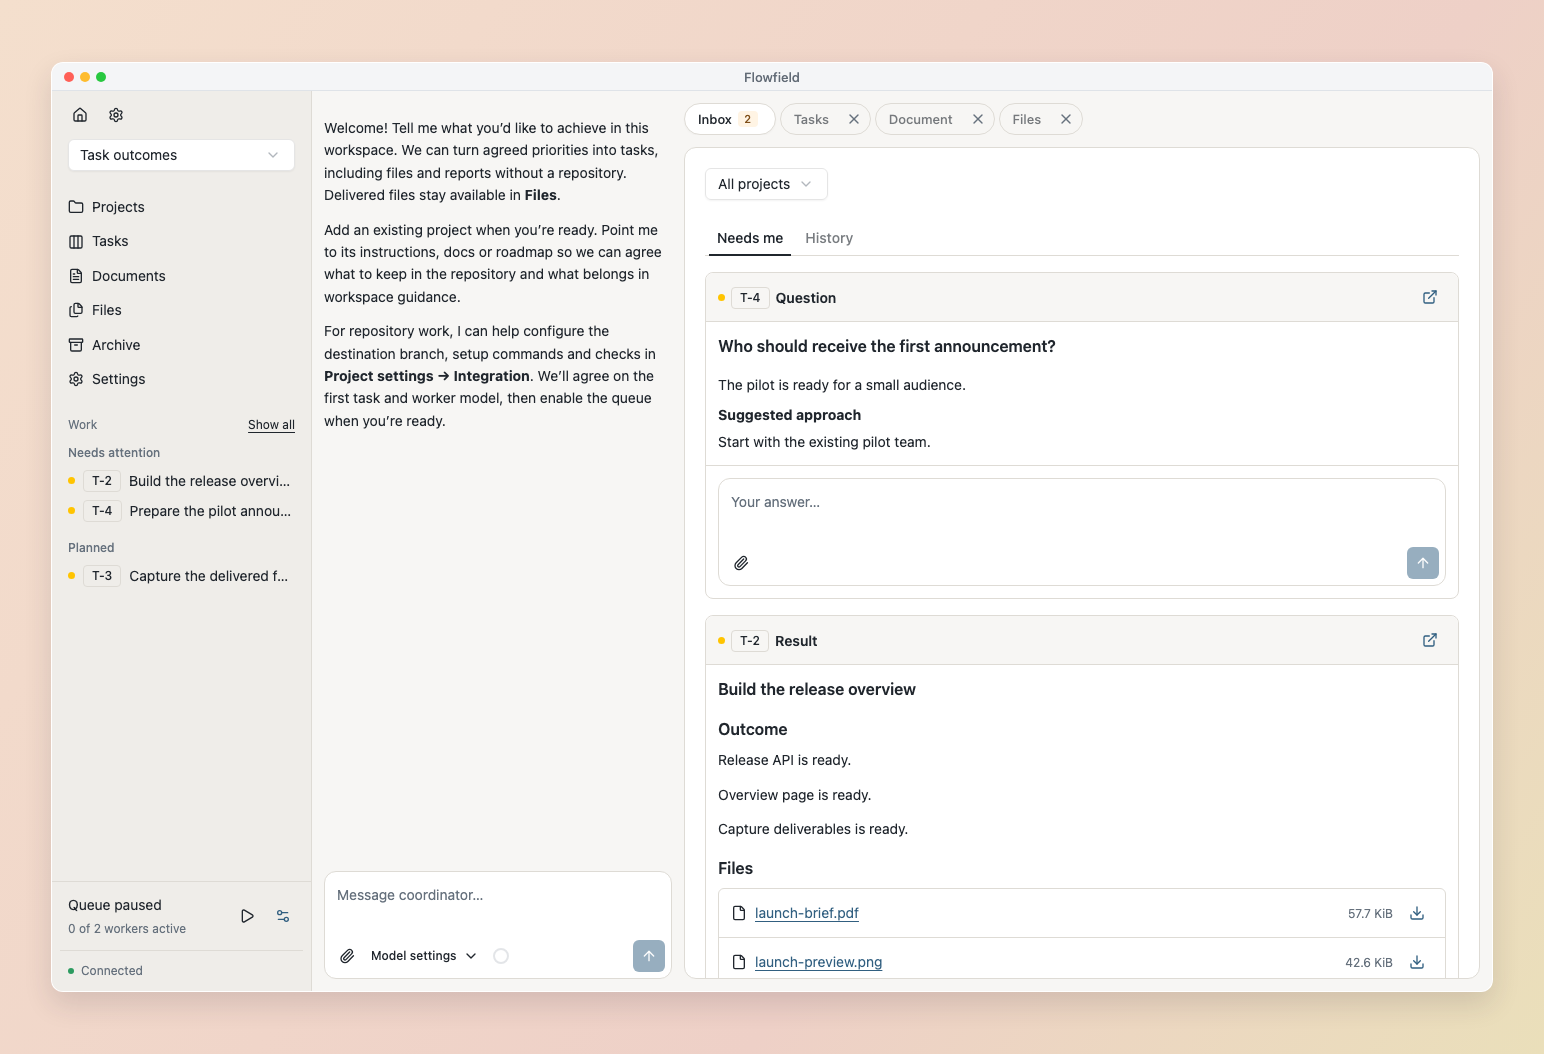
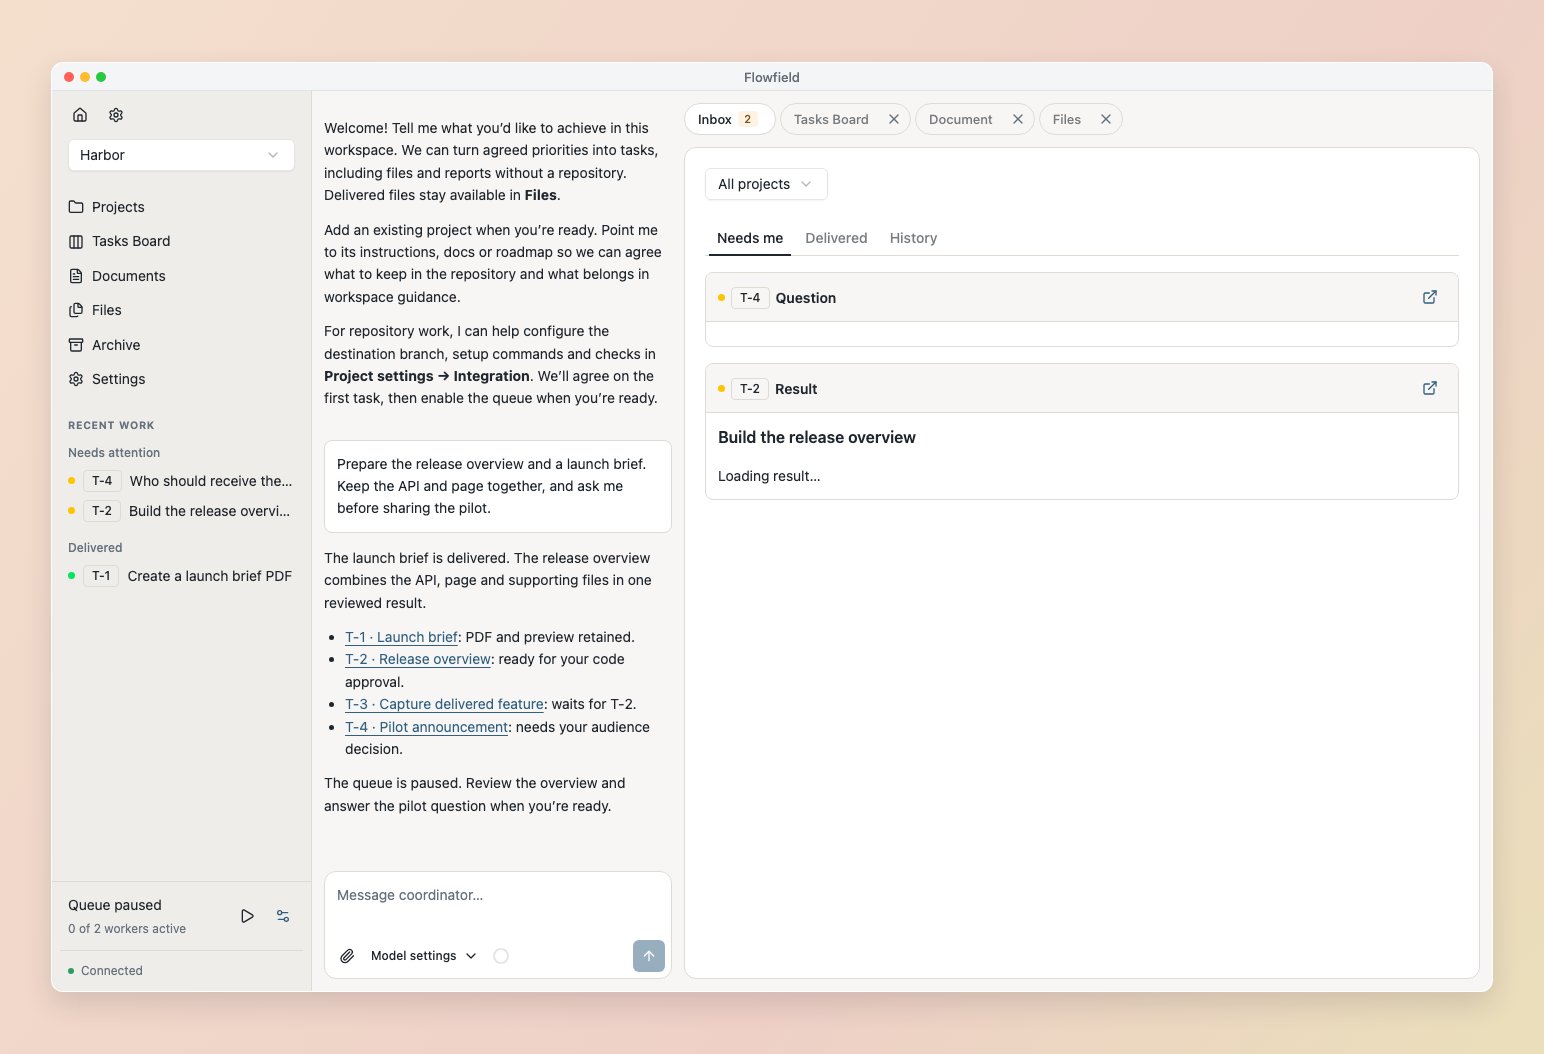
Align task workflow docs and README for 0.6.0

diff --git a/README.md b/README.md
@@ -1,7 +1,7 @@
 <h1 align="center">Flowfield</h1>
 
 <p align="center"><strong>Ship software. Not slop.</strong></p>
-<p align="center">A workspace for you and your coding agents.<br>Work through the idea, keep the context, and build across projects without losing the plot.</p>
+<p align="center">A workspace for you and your coding agents.<br>Shape the plan, build across projects, and bring every outcome through review.</p>
 
 <p align="center">
   <a href="https://flowfield.sh">Website</a> · <a href="https://docs.flowfield.sh/getting-started">Get started</a> · <a href="https://docs.flowfield.sh">Documentation</a>
@@ -13,13 +13,13 @@
   <a href="https://github.com/flowfield-sh/flowfield-core/blob/main/LICENSE"><img src="https://img.shields.io/badge/license-Apache_2.0-2563eb" alt="Apache 2.0 license"></a>
 </p>
 
-![The workspace board and Coordinator, with work spanning several projects](https://raw.githubusercontent.com/flowfield-sh/flowfield-core/main/docs/images/board-hero.png)
+![The Coordinator beside task priorities, review and delivered outcomes](docs/images/board-hero.png)
 
 The idea is in one conversation. The implementation is in another. An agent needs an answer, a task is waiting on another task, and the reason you chose this approach is buried twenty messages back.
 
-**Flowfield gives that work a home.** Delegate planning and coordination through one conversation while workers carry out focused tasks in your existing repositories. Shared knowledge stays in versioned documents, and questions and reviews come back to one Inbox. You decide what ships.
+**Flowfield gives that work a home.** Plan with the Coordinator while workers carry out focused tasks across your existing repositories. Keep shared knowledge in versioned documents, let a Reviewer assess each complete outcome, and answer questions in one Inbox. Code, reports and files stay connected to the work that produced them. You decide which code ships.
 
-Flowfield works with **Codex, Claude Code and Pi**, with more harness support coming. Choose independently for the Coordinator and workers.
+Flowfield runs locally and works with **Codex, Claude Code and Pi**. Choose independently for the Coordinator, Workers and Reviewer.
 
 ## Get started
 
@@ -30,36 +30,38 @@ uv tool install flowfield-core
 flowfield serve
 ```
 
-Open [localhost:8765](http://127.0.0.1:8765), create a workspace and add your existing repositories. See [Getting started](https://docs.flowfield.sh/getting-started) for the walkthrough or [Installation](https://docs.flowfield.sh/installation) for requirements and alternatives.
+Open [localhost:8765](http://127.0.0.1:8765), create a workspace and choose its agents. Add existing repositories for code work, or start with a report or file task. See [Getting started](https://docs.flowfield.sh/getting-started) for the walkthrough or [Installation](https://docs.flowfield.sh/installation) for requirements and alternatives.
+
+Upgrading from an earlier database schema requires a fresh data directory. Existing state is preserved but not migrated; read [Local storage](https://docs.flowfield.sh/storage#starting-fresh) before updating.
 
 ## How does Flowfield work?
 
-Ask the Coordinator to organize the work, maintain shared context and follow up on results. Use Tasks to follow progress, edit shared documents and respond through Inbox. Conversation and direct actions work on the same plan.
+Ask the Coordinator to organize work and maintain shared context. Each task owns a useful outcome, its history and delivery. Follow Tasks Board, edit documents and respond through Inbox while the same conversation stays beside the work.
 
 **💬 Shape the idea**<br>Talk through the problem with the Coordinator. It turns agreed decisions into tasks while the work continues beside the conversation.
 
-**🗂 Connect your projects**<br>Work across your existing repositories in one workspace. The Coordinator can organize shared priorities and link dependent tasks across projects.
+**🗂 Connect your projects**<br>Bring your API, application and documentation into one workspace. Link dependent tasks across projects, or create reports and files without a repository.
 
 **📚 Give workers the right context**<br>The Coordinator maintains shared documents and selects the sources each task needs. Prepared tasks keep their exact document revisions, and newer revisions stay visible for review.
 
-**⚡ Build in parallel**<br>Workers carry out independent tasks in separate Git checkouts using your tools and checks. Flowfield holds dependent work until its prerequisites are complete.
+**⚡ Build in parallel**<br>Workers carry out independent tasks in separate checkouts using your tools and checks. Larger tasks can use local subtasks that assemble into one result. Dependent work waits for delivered prerequisites.
 
-**📥 Know what needs you**<br>Inbox brings together questions, blockers and results. Ask the Coordinator to sort through them, or respond directly. Task feeds preserve progress, answers and evidence.
+**📥 Know what needs you**<br>Inbox separates decisions in Needs me, completed outcomes in Delivered and earlier responses in History. Answer a question once and managed work continues when eligible. Task feeds preserve the story.
 
-**🔎 Own the finish**<br>Ask the Coordinator to help review a result or request another pass. Inspect and try the code yourself when useful, then approve delivery through the conversation or task controls. Approval stays tied to the exact result.
+**🔎 Own the finish**<br>The Reviewer assesses the whole task and can request corrections. Inspect or run the result, then approve exact code for delivery to your local branch. Complete reports and files finish after configured review and remain available in Files. Pushing and deployment stay yours.
 
 ## Screenshots
 
 <table>
   <tr>
-    <td width="33%" align="center"><a href="https://github.com/flowfield-sh/flowfield-core/blob/main/docs/images/readme/board.png"><img src="https://raw.githubusercontent.com/flowfield-sh/flowfield-core/main/docs/images/readme/board.png" alt="Workspace board with code, file and report tasks"></a><br><strong>Tasks</strong></td>
-    <td width="33%" align="center"><a href="https://github.com/flowfield-sh/flowfield-core/blob/main/docs/images/readme/documents.png"><img src="https://raw.githubusercontent.com/flowfield-sh/flowfield-core/main/docs/images/readme/documents.png" alt="Shared workspace document with revision history"></a><br><strong>Documents</strong></td>
-    <td width="33%" align="center"><a href="https://github.com/flowfield-sh/flowfield-core/blob/main/docs/images/readme/files.png"><img src="https://raw.githubusercontent.com/flowfield-sh/flowfield-core/main/docs/images/readme/files.png" alt="Retained task files with folders and a file inspector"></a><br><strong>Files</strong></td>
+    <td width="33%" align="center"><a href="docs/images/readme/board.png"><img src="docs/images/readme/board.png" alt="Workspace board with code, file and report tasks"></a><br><strong>Tasks</strong></td>
+    <td width="33%" align="center"><a href="docs/images/readme/documents.png"><img src="docs/images/readme/documents.png" alt="Shared workspace document with revision history"></a><br><strong>Documents</strong></td>
+    <td width="33%" align="center"><a href="docs/images/readme/files.png"><img src="docs/images/readme/files.png" alt="Retained task files with folders and a file inspector"></a><br><strong>Files</strong></td>
   </tr>
   <tr>
-    <td align="center"><a href="https://github.com/flowfield-sh/flowfield-core/blob/main/docs/images/readme/inbox.png"><img src="https://raw.githubusercontent.com/flowfield-sh/flowfield-core/main/docs/images/readme/inbox.png" alt="Inbox with a question and code ready for review"></a><br><strong>Inbox</strong></td>
-    <td align="center"><a href="https://github.com/flowfield-sh/flowfield-core/blob/main/docs/images/readme/task.png"><img src="https://raw.githubusercontent.com/flowfield-sh/flowfield-core/main/docs/images/readme/task.png" alt="Task conversation with a question and reply controls"></a><br><strong>Task conversation</strong></td>
-    <td align="center"><a href="https://github.com/flowfield-sh/flowfield-core/blob/main/docs/images/readme/review.png"><img src="https://raw.githubusercontent.com/flowfield-sh/flowfield-core/main/docs/images/readme/review.png" alt="Code result with its diff, checks and review actions"></a><br><strong>Code review</strong></td>
+    <td align="center"><a href="docs/images/readme/inbox.png"><img src="docs/images/readme/inbox.png" alt="Inbox with a question and code ready for review"></a><br><strong>Inbox</strong></td>
+    <td align="center"><a href="docs/images/readme/task.png"><img src="docs/images/readme/task.png" alt="Task history with local subtasks, work and whole-task review"></a><br><strong>Task history</strong></td>
+    <td align="center"><a href="docs/images/readme/review.png"><img src="docs/images/readme/review.png" alt="Code result with its diff, checks and review actions"></a><br><strong>Code review</strong></td>
   </tr>
 </table>
 

diff --git a/CHANGELOG.md b/CHANGELOG.md
@@ -4,28 +4,31 @@
 
 ### Features
 
-- Plan and deliver work as tasks, with optional internal subtasks and local dependencies. One task owns the combined result, reviewer sign-off and final delivery; code still requires exact approval.
-- Create file and report tasks without a project. Browse retained outputs by task and folder in Files, with compact navigation and a file inspector.
+- Plan and deliver work as tasks, with optional local subtasks and dependencies. Flowfield assembles contributions into one outcome with one task review and final delivery.
+- Give each task an independent Reviewer, with its own harness/model choice. Reviewers assess the whole result, request scoped corrections and bring questions to Inbox. Code still requires your exact approval.
+- Create reports, images and datasets without a repository. Browse retained outputs in Files, preview images, CSV, text, Markdown and code, and supply exact files to later tasks.
+- Work from an Inbox with Needs me, Delivered and History. Answer requests directly, return to completed outcomes and keep related tasks, documents and results open beside the Coordinator.
 
 ### Improvements
 
-- Prepare and execute tasks directly from their agreed requirements, without maintaining a separate progress checklist. Worker activity, checks and reviewer sign-offs retain the execution history.
-- Follow purpose, progress, questions and results on one task page. Internal work stays disclosed, and worker and reviewer overrides live in task Settings.
-- Preview CSV tables, text, Markdown and code alongside images in Files and results. Maintain the workspace label catalogue in General settings, and read task history in compact work/correction/follow-up panels.
-- Open code results with a directly visible, copyable launch command. Document editors have their own links, and task feeds load the full event list with deliberate expansion.
+- Keep task purpose, local contributions, questions, corrections and reviewer sign-offs in one chronological feed. Exact requests and results own response actions, while task Settings holds Worker and Reviewer overrides.
+- Configure document usage from its editor, including defaults for tasks without a project. Prepared assignments keep their selected revisions. Maintain the shared label catalogue in workspace settings.
+- Try exact code results through a directly visible launcher, inspect their diffs and approve delivery to the configured local branch. Project settings can explicitly permit workers to run saved validation commands through Flowfield.
 
 ### Bug fixes
 
-- Keep approval controls disabled while saving and apply the saved decision immediately, without briefly showing the previous approval actions.
-
-- Keep model selection explicit when navigating to Tasks; opening a page no longer opens the Coordinator model selector automatically.
-- Keep completed tasks and their delivered results stable when prerequisite work changes later, without unnecessary warnings or downstream reconciliation.
-- Keep task pages at the reader's position while worker/reviewer output follows its latest entry until the reader scrolls up. Show one active review indicator with its exact result number. Show saved Coordinator replies directly without a broken full-reply control.
+- Preserve saved answers and review context through correction and recovery, keep resolved requests historical when reopening work, and retain completed deliveries when prerequisites change later.
+- Keep approval controls disabled while saving and apply the saved decision immediately. Preserve unrelated drafts and reading positions during navigation and refresh.
+- Render saved Coordinator replies directly, keep task pages stationary while expanded activity follows new output, and avoid turning a single notification timeout into a service-wide interruption.
 
 ### Breaking changes
 
 - Milestones and their separate board, review and delivery controls are replaced by workspace tasks. Task APIs, MCP tools and CLI commands use workspace identity; older task and milestone routes are removed.
-- Older Flowfield databases are no longer migrated. Start with a fresh data directory when the schema differs; existing databases are rejected without automatic deletion. The pre-upgrade database backup and restore commands have been removed. See [local storage](https://docs.flowfield.sh/storage).
+- Older Flowfield databases are no longer migrated. Existing incompatible stores are rejected without automatic deletion. The earlier database backup and restore commands are removed.
+
+### Upgrade
+
+Stop Flowfield and preserve the complete old data directory and relevant repositories before upgrading. Start this version with a new data directory, create a workspace and adopt your existing repositories. Older state requires its matching build for access; native harness accounts remain separate. See [starting fresh](https://docs.flowfield.sh/storage#starting-fresh).
 
 ## 0.5.0
 
